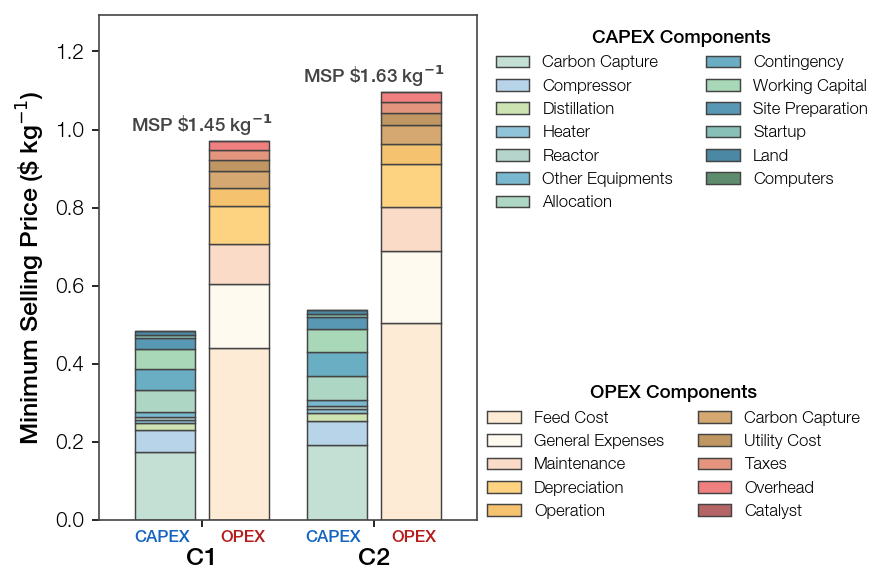
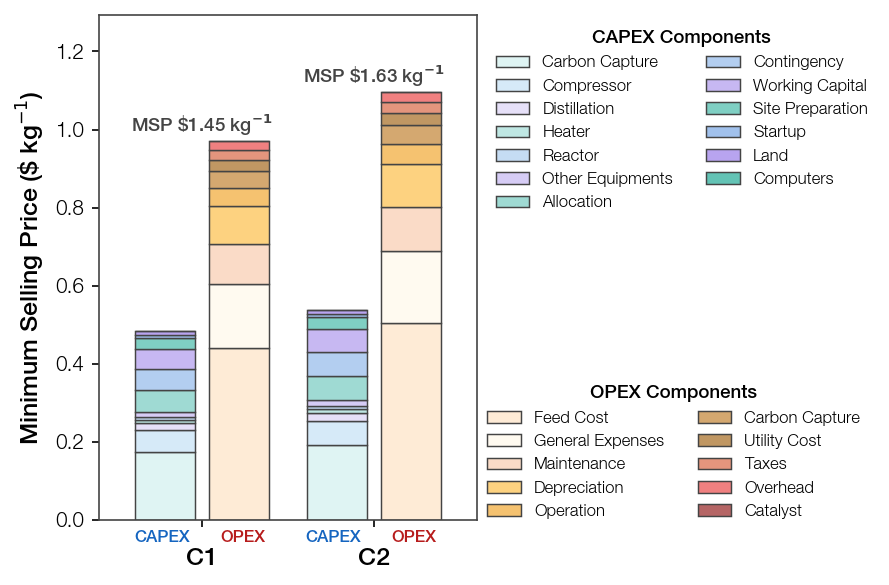
Adjust capex color

diff --git a/drHa_analysis.py b/drHa_analysis.py
@@ -170,20 +170,41 @@ plt.rcParams.update(TWOCASE_RC)
 #     '#4A88A4',  # slate blue (Blue)
 #     '#5F8C6E'   # deep juniper green (Darkest Green)
 # ]
+# capex_colors = [
+#     "#DFF4F3",  # light aqua
+#     "#D6EAF8",  # light blue
+#     "#BFE7E3",
+#     "#C5DCF3",
+#     "#9FDAD3",
+#     "#B3CEF0",
+#     "#7FCFC3",
+#     "#A1C1EC",
+#     "#63C3B5",
+#     "#8FB5E8",
+#     "#4FB8A8",
+#     "#7DA9E3",
+#     "#3BAE9B"
+# ]
+
 capex_colors = [
-    '#C3E3D5',  # L: 83.0% (Lightest Green)
-    '#B1CFE5',  # L: 79.8% (Blue)
-    '#C6DFA7',  # L: 76.7% (Green)
-    '#9BC9DB',  # L: 73.5% (Blue)
-    '#9BCBBF',  # L: 70.3% (Green)
-    '#84BCD1',  # L: 67.2% (Blue)
-    '#83C3A6',  # L: 64.0% (Green)
-    '#71B0C4',  # L: 60.8% (Blue)
-    '#6ABB85',  # L: 57.7% (Green)
-    '#5F9BB6',  # L: 54.5% (Blue)
-    '#5BAA9E',  # L: 51.3% (Green)
-    '#4E8BA7',  # L: 48.2% (Blue)
-    '#598C6A'   # L: 45.0% (Darkest Green)
+    "#DFF4F3",  # aqua
+    "#D6EAF8",  # blue
+    "#E6E0F8",  # lavender
+
+    "#BFE7E3",
+    "#C5DCF3",
+    "#D6CCF5",
+
+    "#9FDAD3",
+    "#B3CEF0",
+    "#C7B8F2",
+
+    "#7FCFC3",
+    "#A1C1EC",
+    "#B8A4EF",
+
+    "#63C3B5",
+    "#8FB5E8"
 ]
 
 # OPEX: warm pink-peach-gold family
